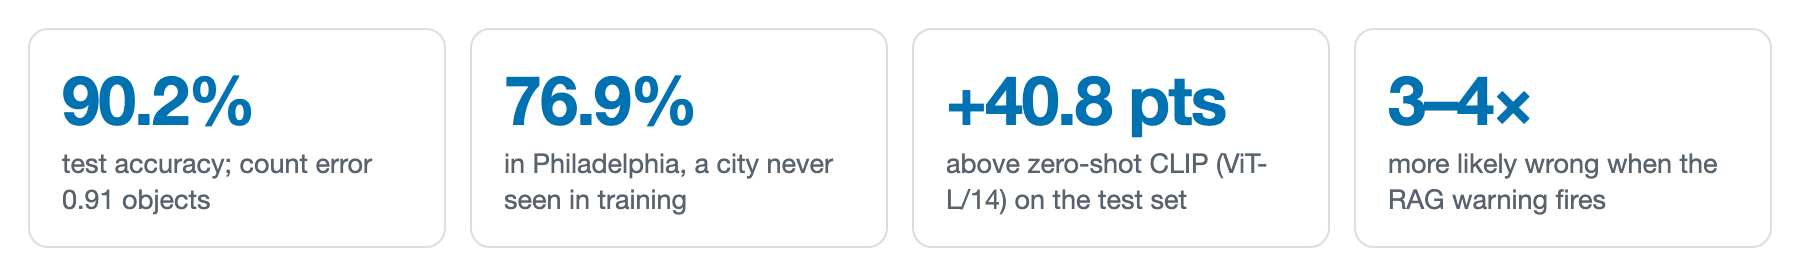
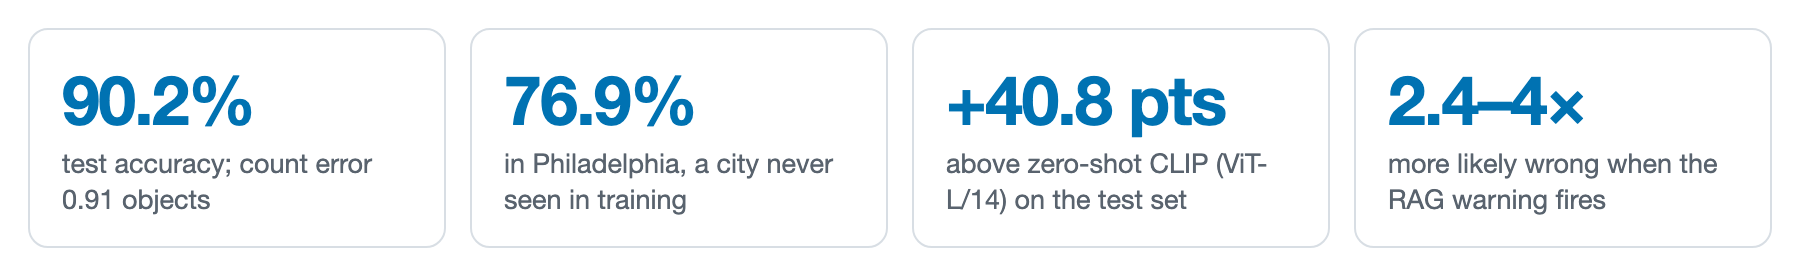
Warning ratio is 2.4-4x, not 3-4x: count is 2.4x and comparison 2.9x (README, key-results card, project log; PDF unchanged)

Changed region(s): [[0.7778, 0.2812, 0.9022, 0.5]]

diff --git a/docs/report/kpis.html b/docs/report/kpis.html
@@ -18,7 +18,7 @@
   <div class="kpi"><div class="v">90.2%</div><div class="l">test accuracy; count error 0.91 objects</div></div>
   <div class="kpi"><div class="v">76.9%</div><div class="l">in Philadelphia, a city never seen in training</div></div>
   <div class="kpi"><div class="v">+40.8 pts</div><div class="l">above zero-shot CLIP (ViT-L/14) on the test set</div></div>
-  <div class="kpi"><div class="v">3–4×</div><div class="l">more likely wrong when the RAG warning fires</div></div>
+  <div class="kpi"><div class="v">2.4–4×</div><div class="l">more likely wrong when the RAG warning fires</div></div>
 </div>
 </body>
 </html>

diff --git a/README.md b/README.md
@@ -15,7 +15,7 @@ zero-shot CLIP, with explanation maps that were tested before being trusted, and
 📄 **[Progress report (PDF, 17 pages)](reports/RSVQA_progress_report_weeks1-6.pdf)** ·
 📒 **[Full project log](docs/PROJECT_LOG.md)** (every run, table and decision)
 
-<img src="reports/figures/readme/key_results.png" alt="Key results: 90.2% test accuracy; 76.9% in Philadelphia, a city never seen in training; +40.8 points above zero-shot CLIP; answers are 3-4 times more likely wrong when the RAG warning fires" width="900">
+<img src="reports/figures/readme/key_results.png" alt="Key results: 90.2% test accuracy; 76.9% in Philadelphia, a city never seen in training; +40.8 points above zero-shot CLIP; answers are 2.4 to 4 times more likely wrong when the RAG warning fires" width="900">
 
 <img src="reports/figures/xai/followup_test_presence_yes_1.png" alt="One question, four explanation maps: the tile, then cross-attention, rollout, Grad-CAM and occlusion" width="900">
 
@@ -84,7 +84,7 @@ right warning) before it is shown, falling back to a template.
 <img src="reports/figures/readme/warning_rates.png" alt="How often the model is wrong when the RAG warning fires and when it does not, per question type" width="600">
 
 - **Retrieval flags wrong answers better than random neighbours on every question type** (AUROC 0.67 to 0.85).
-- **A warned answer is 3–4× as likely to be wrong.** The warning is rare (1–12% of questions), so silence is not a
+- **A warned answer is 2.4–4× as likely to be wrong** (both test sets pooled: count 2.4×, comparison 2.9×, presence 3.8×, area 4.0×). The warning is rare (1–12% of questions), so silence is not a
   guarantee.
 
 ## Limitations

diff --git a/docs/PROJECT_LOG.md b/docs/PROJECT_LOG.md
@@ -547,8 +547,8 @@ range of true counts. On one question per test tile and type (13,128), both test
 | Area | 11.5% | 60.9% | 15.1% |
 | Count | 1.1% | 85.7% | 35.2% |
 
-- **A warned answer is about 3 to 4 times as likely to be wrong** (count about 2.4 times), and this holds in both test
-  sets. Comparison in Philadelphia separates least (29.0% against 19.5%), matching its retrieval result.
+- **A warned answer is 2.4 to 4 times as likely to be wrong**, pooled over both test sets (count 2.4, comparison 2.9,
+  presence 3.8, area 4.0). Warned answers are more often wrong in each test set too, though the gap varies. Comparison in Philadelphia separates least (29.0% against 19.5%), matching its retrieval result.
 - **Most wrong answers are not warned.** The warning fires on 1% to 12% of questions, so it is a "be careful"
   signal, not a guarantee when it is silent. Count almost never warns, because the neighbours' range is usually wide.
 - **Unanimous neighbours can back a wrong answer.** When all 5 neighbours share the model's wrong answer, the
